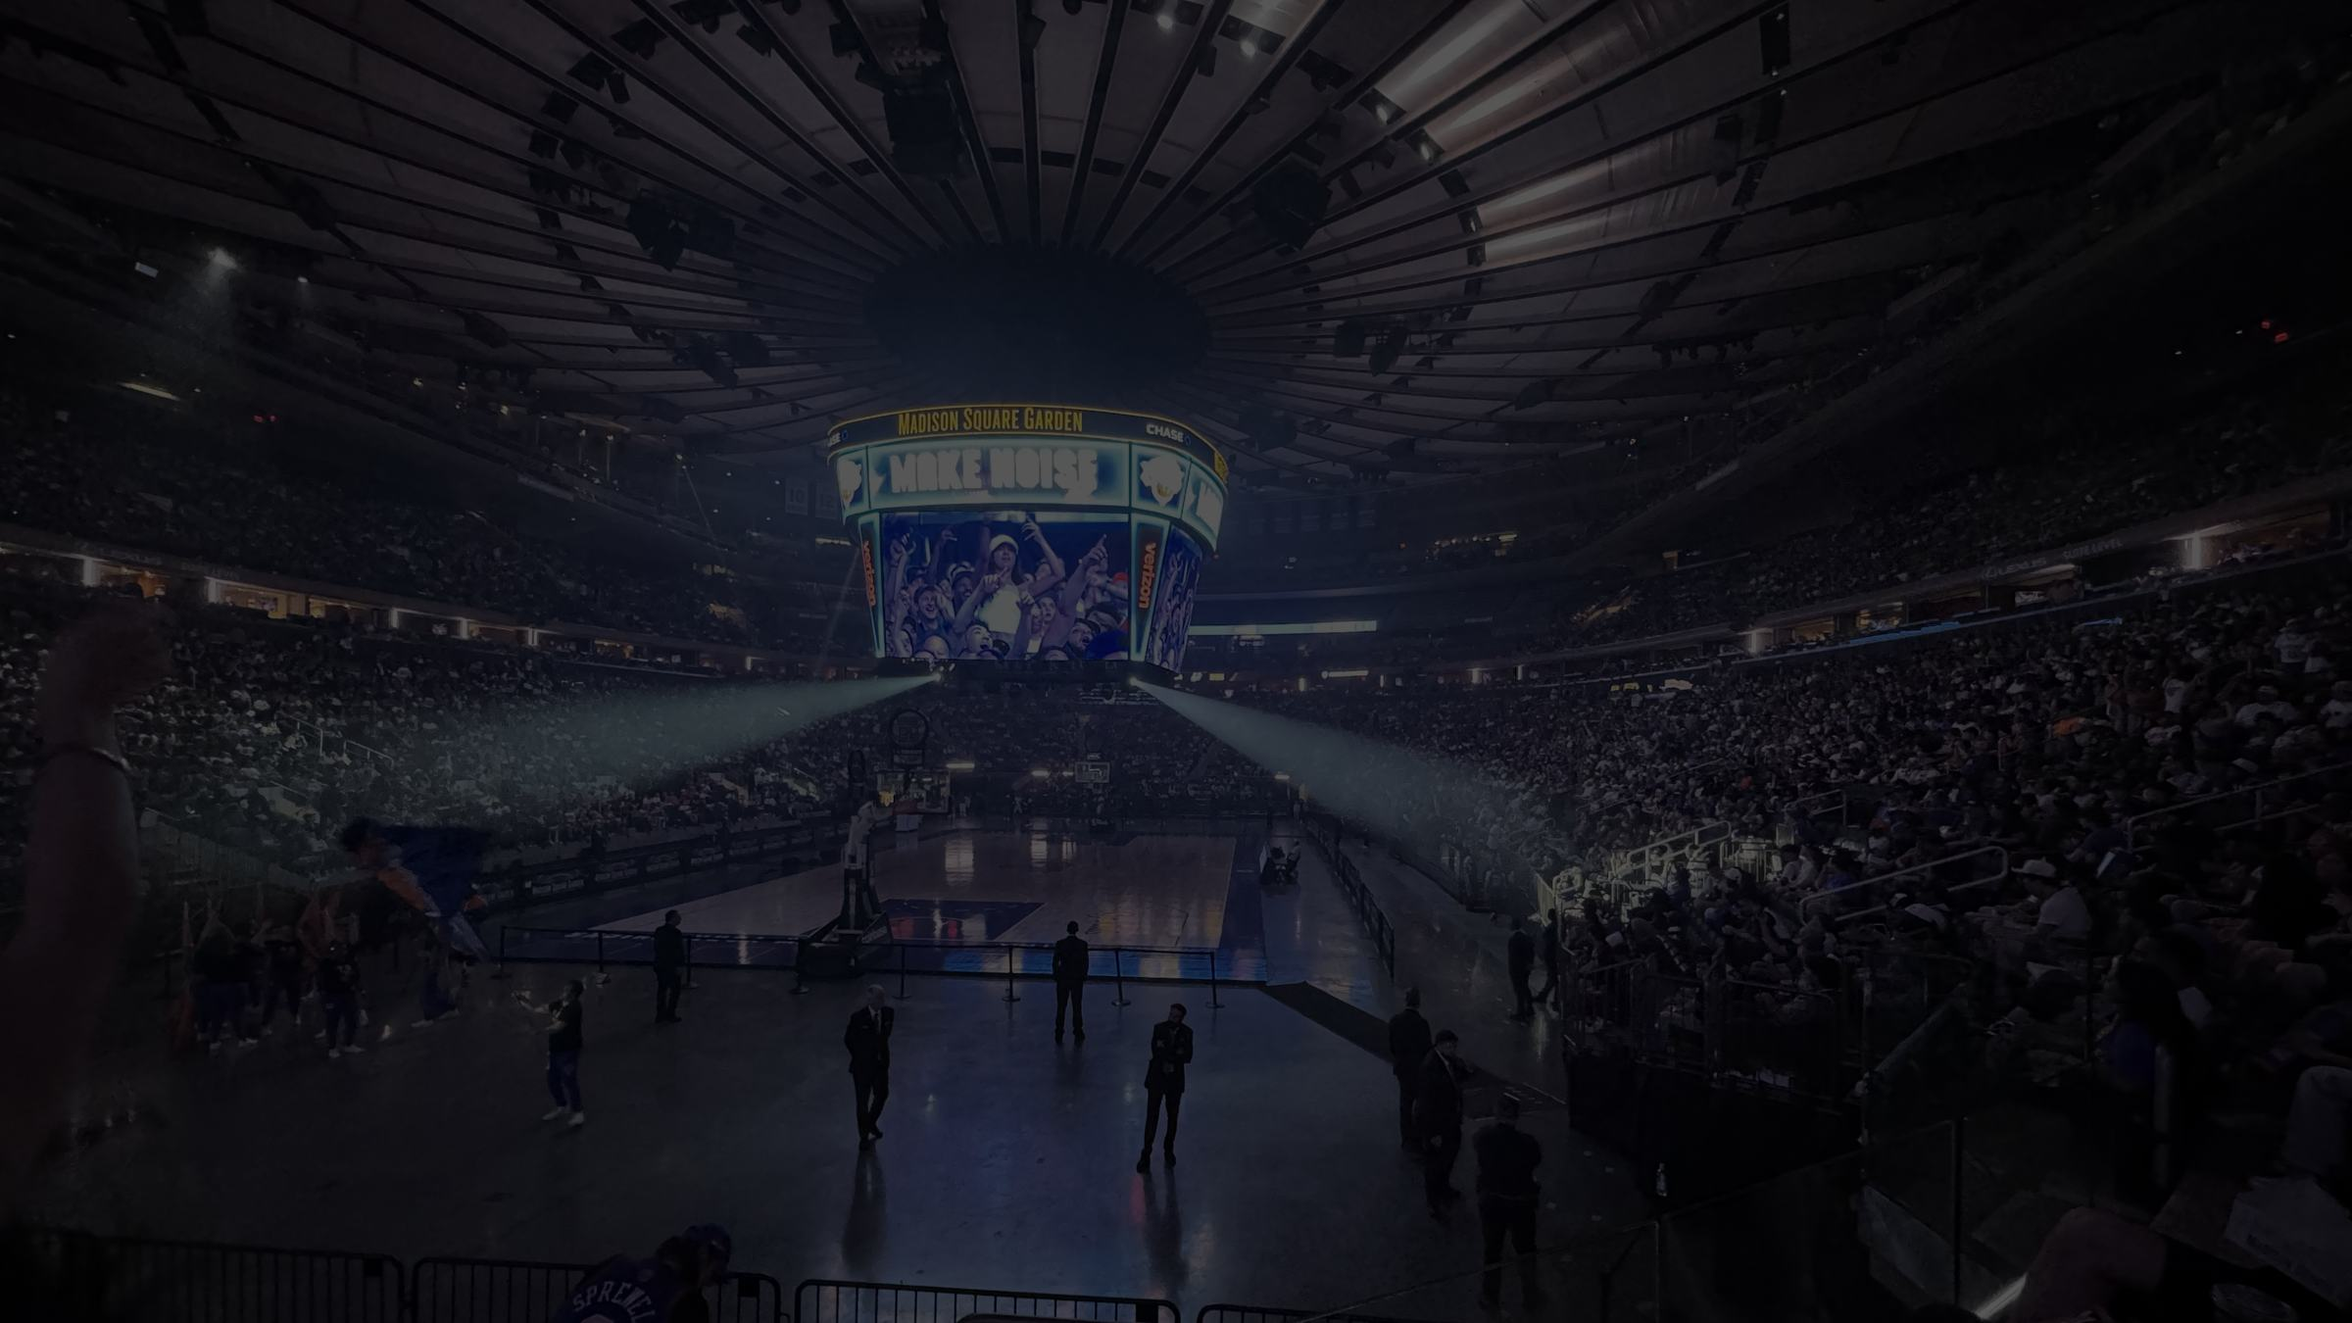
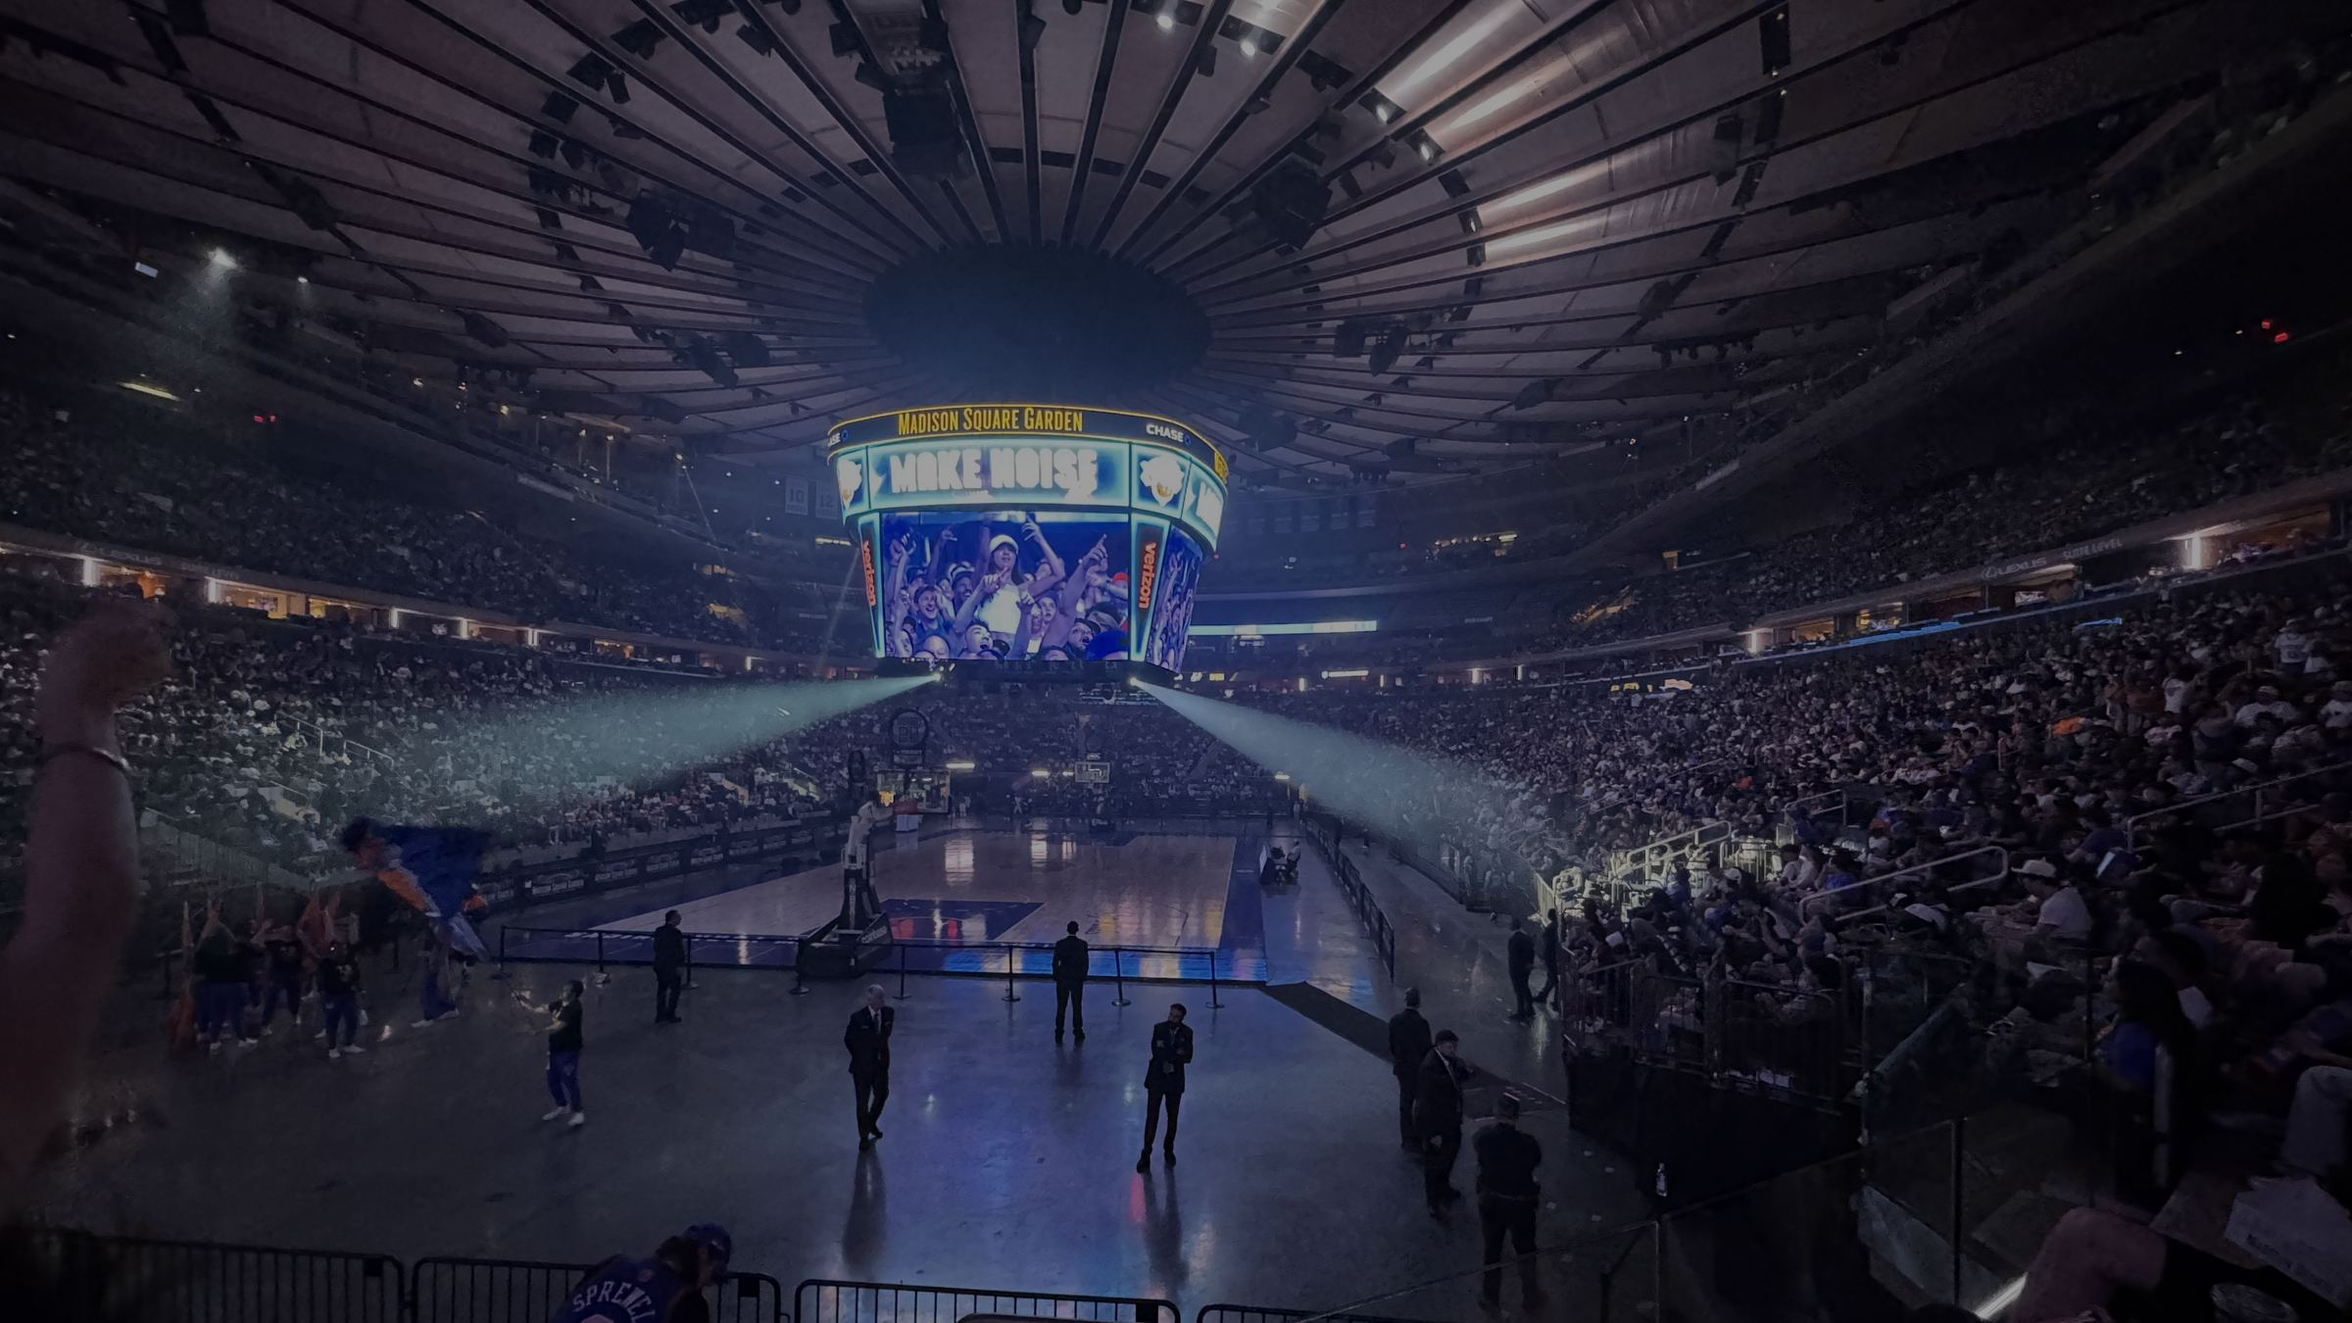
Cover photo was too dark: brighten it and scrim only the text band
The file is now darkened to 0.62 rather than 0.34 and keeps more of its colour,
and the layer sits at .92 opacity, so Madison Square Garden actually reads.

Legibility comes from a scrim band layered over the photo instead of dimming the
whole thing -- the bowl stays bright top and bottom while the middle, where the
copy sits, is held back. Body text lifted off var(--dim) and given a soft shadow.

The photo is passed as a --shot custom property so CSS can compose the gradient
over it; an inline background-image would have replaced the whole stack.

diff --git a/index-2025-26.html b/index-2025-26.html
@@ -336,6 +336,9 @@ a{color:inherit}
    which hands the whole right column to the stats and the game-by-game chart. */
 .pleft{overflow:hidden}
 .pleft .shot{flex:0 0 50%;min-height:0}
+/* Without a shot chart under it there is nothing to share the column with, so the
+   portrait takes the lot instead of stopping half way down. */
+.pleft.noshot .shot{flex:1 1 auto}
 /* The shot-chart panel carries class .col, whose flex rule used to come from the old
    .pbot wrapper. Without it the panel is a plain block, .court's flex does nothing and
    the svg falls back to its intrinsic aspect height -- which runs off the card. */
@@ -417,16 +420,25 @@ a{color:inherit}
   justify-content:center;gap:16px;text-align:center;align-items:center}
 /* Madison Square Garden behind the title. Already darkened in the file; the gradient
    on top pins the centre darker still so the display type never fights the crowd. */
-.coverbg{position:absolute;inset:-18px -20px;z-index:-1;background-size:cover;
-  background-position:center 38%;opacity:.55;
-  -webkit-mask-image:radial-gradient(120% 90% at 50% 45%, transparent 8%, #000 72%);
-  mask-image:radial-gradient(120% 90% at 50% 45%, transparent 8%, #000 72%)}
+/* Photo with a scrim layered over it, not a global dim: the band behind the text is
+   darkened so the small copy stays readable, while the bowl above and below keeps its
+   brightness. The file itself is only lightly darkened. */
+.coverbg{position:absolute;inset:-18px -20px;z-index:-1;opacity:.92;
+  background-image:linear-gradient(180deg,
+      rgba(7,9,16,.10) 0%, rgba(7,9,16,.52) 24%, rgba(7,9,16,.66) 46%,
+      rgba(7,9,16,.58) 68%, rgba(7,9,16,.14) 100%), var(--shot);
+  background-size:cover,cover;background-position:center,center 38%;
+  -webkit-mask-image:linear-gradient(180deg, transparent 0%, #000 12%, #000 88%, transparent 100%);
+  mask-image:linear-gradient(180deg, transparent 0%, #000 12%, #000 88%, transparent 100%)}
 .covercred{font-size:10px;color:rgba(150,166,205,.5);letter-spacing:.02em;margin-top:2px}
 .covercred a{color:rgba(150,166,205,.72);text-decoration:none;
   border-bottom:1px solid rgba(150,166,205,.22)}
 .cover h1{font-size:clamp(34px,6vw,84px);font-weight:700;letter-spacing:-.03em;line-height:.98}
 .cover h1 em{font-style:normal;color:var(--acc)}
-.cover p{max-width:56ch;color:var(--dim);font-size:clamp(13px,1.35vw,16px);line-height:1.6}
+.cover p{max-width:56ch;color:#c2cadb;font-size:clamp(13px,1.35vw,16px);line-height:1.6;
+  text-shadow:0 1px 14px rgba(7,9,16,.85)}
+.cover h1{text-shadow:0 2px 26px rgba(7,9,16,.7)}
+.cover .cstat .k{color:#a6b0c6}
 .cstat{display:flex;gap:28px;flex-wrap:wrap;justify-content:center;margin-top:6px}
 .cstat div{text-align:center}
 
@@ -1219,7 +1231,7 @@ function coverCard(){
   const games = D.teams.reduce((n,t) => n + t.games.filter(g => g.res && g.counts !== false).length, 0) / 2;
   return `<div class="in"><div class="cover">
     ${COVER_PHOTO ? `<div class="coverbg"
-      style="background-image:url('img/cover/${COVER_PHOTO.file}')"></div>` : ''}
+      style="--shot:url('img/cover/${COVER_PHOTO.file}')"></div>` : ''}
     <div class="kick">A Guy With A Scarf · Season Film</div>
     <h1>The NBA ${SEASON} season,<br><em>card by card</em></h1>
     <p>${SEASON}, read end to end: the ${players} leading scorers, the charts that rank
@@ -1338,7 +1350,7 @@ function playerCard(p){
                p.college, p.debut ? 'debut ' + p.debut : null].filter(Boolean).join(' · ');
   return `<div class="in">
     <div class="pgrid">
-      <div class="pleft">
+      <div class="pleft${p.shots ? '' : ' noshot'}">
         <div class="pmeta">
           <img src="${crest(p.team)}" alt="${esc(p.team)}" loading="lazy">
           <div style="min-width:0">

diff --git a/index-2026-27.html b/index-2026-27.html
@@ -336,6 +336,9 @@ a{color:inherit}
    which hands the whole right column to the stats and the game-by-game chart. */
 .pleft{overflow:hidden}
 .pleft .shot{flex:0 0 50%;min-height:0}
+/* Without a shot chart under it there is nothing to share the column with, so the
+   portrait takes the lot instead of stopping half way down. */
+.pleft.noshot .shot{flex:1 1 auto}
 /* The shot-chart panel carries class .col, whose flex rule used to come from the old
    .pbot wrapper. Without it the panel is a plain block, .court's flex does nothing and
    the svg falls back to its intrinsic aspect height -- which runs off the card. */
@@ -417,16 +420,25 @@ a{color:inherit}
   justify-content:center;gap:16px;text-align:center;align-items:center}
 /* Madison Square Garden behind the title. Already darkened in the file; the gradient
    on top pins the centre darker still so the display type never fights the crowd. */
-.coverbg{position:absolute;inset:-18px -20px;z-index:-1;background-size:cover;
-  background-position:center 38%;opacity:.55;
-  -webkit-mask-image:radial-gradient(120% 90% at 50% 45%, transparent 8%, #000 72%);
-  mask-image:radial-gradient(120% 90% at 50% 45%, transparent 8%, #000 72%)}
+/* Photo with a scrim layered over it, not a global dim: the band behind the text is
+   darkened so the small copy stays readable, while the bowl above and below keeps its
+   brightness. The file itself is only lightly darkened. */
+.coverbg{position:absolute;inset:-18px -20px;z-index:-1;opacity:.92;
+  background-image:linear-gradient(180deg,
+      rgba(7,9,16,.10) 0%, rgba(7,9,16,.52) 24%, rgba(7,9,16,.66) 46%,
+      rgba(7,9,16,.58) 68%, rgba(7,9,16,.14) 100%), var(--shot);
+  background-size:cover,cover;background-position:center,center 38%;
+  -webkit-mask-image:linear-gradient(180deg, transparent 0%, #000 12%, #000 88%, transparent 100%);
+  mask-image:linear-gradient(180deg, transparent 0%, #000 12%, #000 88%, transparent 100%)}
 .covercred{font-size:10px;color:rgba(150,166,205,.5);letter-spacing:.02em;margin-top:2px}
 .covercred a{color:rgba(150,166,205,.72);text-decoration:none;
   border-bottom:1px solid rgba(150,166,205,.22)}
 .cover h1{font-size:clamp(34px,6vw,84px);font-weight:700;letter-spacing:-.03em;line-height:.98}
 .cover h1 em{font-style:normal;color:var(--acc)}
-.cover p{max-width:56ch;color:var(--dim);font-size:clamp(13px,1.35vw,16px);line-height:1.6}
+.cover p{max-width:56ch;color:#c2cadb;font-size:clamp(13px,1.35vw,16px);line-height:1.6;
+  text-shadow:0 1px 14px rgba(7,9,16,.85)}
+.cover h1{text-shadow:0 2px 26px rgba(7,9,16,.7)}
+.cover .cstat .k{color:#a6b0c6}
 .cstat{display:flex;gap:28px;flex-wrap:wrap;justify-content:center;margin-top:6px}
 .cstat div{text-align:center}
 
@@ -1219,7 +1231,7 @@ function coverCard(){
   const games = D.teams.reduce((n,t) => n + t.games.filter(g => g.res && g.counts !== false).length, 0) / 2;
   return `<div class="in"><div class="cover">
     ${COVER_PHOTO ? `<div class="coverbg"
-      style="background-image:url('img/cover/${COVER_PHOTO.file}')"></div>` : ''}
+      style="--shot:url('img/cover/${COVER_PHOTO.file}')"></div>` : ''}
     <div class="kick">A Guy With A Scarf · Season Film</div>
     <h1>The NBA ${SEASON} season,<br><em>card by card</em></h1>
     <p>${SEASON}, read end to end: the ${players} leading scorers, the charts that rank
@@ -1338,7 +1350,7 @@ function playerCard(p){
                p.college, p.debut ? 'debut ' + p.debut : null].filter(Boolean).join(' · ');
   return `<div class="in">
     <div class="pgrid">
-      <div class="pleft">
+      <div class="pleft${p.shots ? '' : ' noshot'}">
         <div class="pmeta">
           <img src="${crest(p.team)}" alt="${esc(p.team)}" loading="lazy">
           <div style="min-width:0">

diff --git a/index.html b/index.html
@@ -336,6 +336,9 @@ a{color:inherit}
    which hands the whole right column to the stats and the game-by-game chart. */
 .pleft{overflow:hidden}
 .pleft .shot{flex:0 0 50%;min-height:0}
+/* Without a shot chart under it there is nothing to share the column with, so the
+   portrait takes the lot instead of stopping half way down. */
+.pleft.noshot .shot{flex:1 1 auto}
 /* The shot-chart panel carries class .col, whose flex rule used to come from the old
    .pbot wrapper. Without it the panel is a plain block, .court's flex does nothing and
    the svg falls back to its intrinsic aspect height -- which runs off the card. */
@@ -417,16 +420,25 @@ a{color:inherit}
   justify-content:center;gap:16px;text-align:center;align-items:center}
 /* Madison Square Garden behind the title. Already darkened in the file; the gradient
    on top pins the centre darker still so the display type never fights the crowd. */
-.coverbg{position:absolute;inset:-18px -20px;z-index:-1;background-size:cover;
-  background-position:center 38%;opacity:.55;
-  -webkit-mask-image:radial-gradient(120% 90% at 50% 45%, transparent 8%, #000 72%);
-  mask-image:radial-gradient(120% 90% at 50% 45%, transparent 8%, #000 72%)}
+/* Photo with a scrim layered over it, not a global dim: the band behind the text is
+   darkened so the small copy stays readable, while the bowl above and below keeps its
+   brightness. The file itself is only lightly darkened. */
+.coverbg{position:absolute;inset:-18px -20px;z-index:-1;opacity:.92;
+  background-image:linear-gradient(180deg,
+      rgba(7,9,16,.10) 0%, rgba(7,9,16,.52) 24%, rgba(7,9,16,.66) 46%,
+      rgba(7,9,16,.58) 68%, rgba(7,9,16,.14) 100%), var(--shot);
+  background-size:cover,cover;background-position:center,center 38%;
+  -webkit-mask-image:linear-gradient(180deg, transparent 0%, #000 12%, #000 88%, transparent 100%);
+  mask-image:linear-gradient(180deg, transparent 0%, #000 12%, #000 88%, transparent 100%)}
 .covercred{font-size:10px;color:rgba(150,166,205,.5);letter-spacing:.02em;margin-top:2px}
 .covercred a{color:rgba(150,166,205,.72);text-decoration:none;
   border-bottom:1px solid rgba(150,166,205,.22)}
 .cover h1{font-size:clamp(34px,6vw,84px);font-weight:700;letter-spacing:-.03em;line-height:.98}
 .cover h1 em{font-style:normal;color:var(--acc)}
-.cover p{max-width:56ch;color:var(--dim);font-size:clamp(13px,1.35vw,16px);line-height:1.6}
+.cover p{max-width:56ch;color:#c2cadb;font-size:clamp(13px,1.35vw,16px);line-height:1.6;
+  text-shadow:0 1px 14px rgba(7,9,16,.85)}
+.cover h1{text-shadow:0 2px 26px rgba(7,9,16,.7)}
+.cover .cstat .k{color:#a6b0c6}
 .cstat{display:flex;gap:28px;flex-wrap:wrap;justify-content:center;margin-top:6px}
 .cstat div{text-align:center}
 
@@ -1219,7 +1231,7 @@ function coverCard(){
   const games = D.teams.reduce((n,t) => n + t.games.filter(g => g.res && g.counts !== false).length, 0) / 2;
   return `<div class="in"><div class="cover">
     ${COVER_PHOTO ? `<div class="coverbg"
-      style="background-image:url('img/cover/${COVER_PHOTO.file}')"></div>` : ''}
+      style="--shot:url('img/cover/${COVER_PHOTO.file}')"></div>` : ''}
     <div class="kick">A Guy With A Scarf · Season Film</div>
     <h1>The NBA ${SEASON} season,<br><em>card by card</em></h1>
     <p>${SEASON}, read end to end: the ${players} leading scorers, the charts that rank
@@ -1338,7 +1350,7 @@ function playerCard(p){
                p.college, p.debut ? 'debut ' + p.debut : null].filter(Boolean).join(' · ');
   return `<div class="in">
     <div class="pgrid">
-      <div class="pleft">
+      <div class="pleft${p.shots ? '' : ' noshot'}">
         <div class="pmeta">
           <img src="${crest(p.team)}" alt="${esc(p.team)}" loading="lazy">
           <div style="min-width:0">

diff --git a/template.html b/template.html
@@ -336,6 +336,9 @@ a{color:inherit}
    which hands the whole right column to the stats and the game-by-game chart. */
 .pleft{overflow:hidden}
 .pleft .shot{flex:0 0 50%;min-height:0}
+/* Without a shot chart under it there is nothing to share the column with, so the
+   portrait takes the lot instead of stopping half way down. */
+.pleft.noshot .shot{flex:1 1 auto}
 /* The shot-chart panel carries class .col, whose flex rule used to come from the old
    .pbot wrapper. Without it the panel is a plain block, .court's flex does nothing and
    the svg falls back to its intrinsic aspect height -- which runs off the card. */
@@ -417,16 +420,25 @@ a{color:inherit}
   justify-content:center;gap:16px;text-align:center;align-items:center}
 /* Madison Square Garden behind the title. Already darkened in the file; the gradient
    on top pins the centre darker still so the display type never fights the crowd. */
-.coverbg{position:absolute;inset:-18px -20px;z-index:-1;background-size:cover;
-  background-position:center 38%;opacity:.55;
-  -webkit-mask-image:radial-gradient(120% 90% at 50% 45%, transparent 8%, #000 72%);
-  mask-image:radial-gradient(120% 90% at 50% 45%, transparent 8%, #000 72%)}
+/* Photo with a scrim layered over it, not a global dim: the band behind the text is
+   darkened so the small copy stays readable, while the bowl above and below keeps its
+   brightness. The file itself is only lightly darkened. */
+.coverbg{position:absolute;inset:-18px -20px;z-index:-1;opacity:.92;
+  background-image:linear-gradient(180deg,
+      rgba(7,9,16,.10) 0%, rgba(7,9,16,.52) 24%, rgba(7,9,16,.66) 46%,
+      rgba(7,9,16,.58) 68%, rgba(7,9,16,.14) 100%), var(--shot);
+  background-size:cover,cover;background-position:center,center 38%;
+  -webkit-mask-image:linear-gradient(180deg, transparent 0%, #000 12%, #000 88%, transparent 100%);
+  mask-image:linear-gradient(180deg, transparent 0%, #000 12%, #000 88%, transparent 100%)}
 .covercred{font-size:10px;color:rgba(150,166,205,.5);letter-spacing:.02em;margin-top:2px}
 .covercred a{color:rgba(150,166,205,.72);text-decoration:none;
   border-bottom:1px solid rgba(150,166,205,.22)}
 .cover h1{font-size:clamp(34px,6vw,84px);font-weight:700;letter-spacing:-.03em;line-height:.98}
 .cover h1 em{font-style:normal;color:var(--acc)}
-.cover p{max-width:56ch;color:var(--dim);font-size:clamp(13px,1.35vw,16px);line-height:1.6}
+.cover p{max-width:56ch;color:#c2cadb;font-size:clamp(13px,1.35vw,16px);line-height:1.6;
+  text-shadow:0 1px 14px rgba(7,9,16,.85)}
+.cover h1{text-shadow:0 2px 26px rgba(7,9,16,.7)}
+.cover .cstat .k{color:#a6b0c6}
 .cstat{display:flex;gap:28px;flex-wrap:wrap;justify-content:center;margin-top:6px}
 .cstat div{text-align:center}
 
@@ -1219,7 +1231,7 @@ function coverCard(){
   const games = D.teams.reduce((n,t) => n + t.games.filter(g => g.res && g.counts !== false).length, 0) / 2;
   return `<div class="in"><div class="cover">
     ${COVER_PHOTO ? `<div class="coverbg"
-      style="background-image:url('img/cover/${COVER_PHOTO.file}')"></div>` : ''}
+      style="--shot:url('img/cover/${COVER_PHOTO.file}')"></div>` : ''}
     <div class="kick">A Guy With A Scarf · Season Film</div>
     <h1>The NBA ${SEASON} season,<br><em>card by card</em></h1>
     <p>${SEASON}, read end to end: the ${players} leading scorers, the charts that rank
@@ -1338,7 +1350,7 @@ function playerCard(p){
                p.college, p.debut ? 'debut ' + p.debut : null].filter(Boolean).join(' · ');
   return `<div class="in">
     <div class="pgrid">
-      <div class="pleft">
+      <div class="pleft${p.shots ? '' : ' noshot'}">
         <div class="pmeta">
           <img src="${crest(p.team)}" alt="${esc(p.team)}" loading="lazy">
           <div style="min-width:0">
